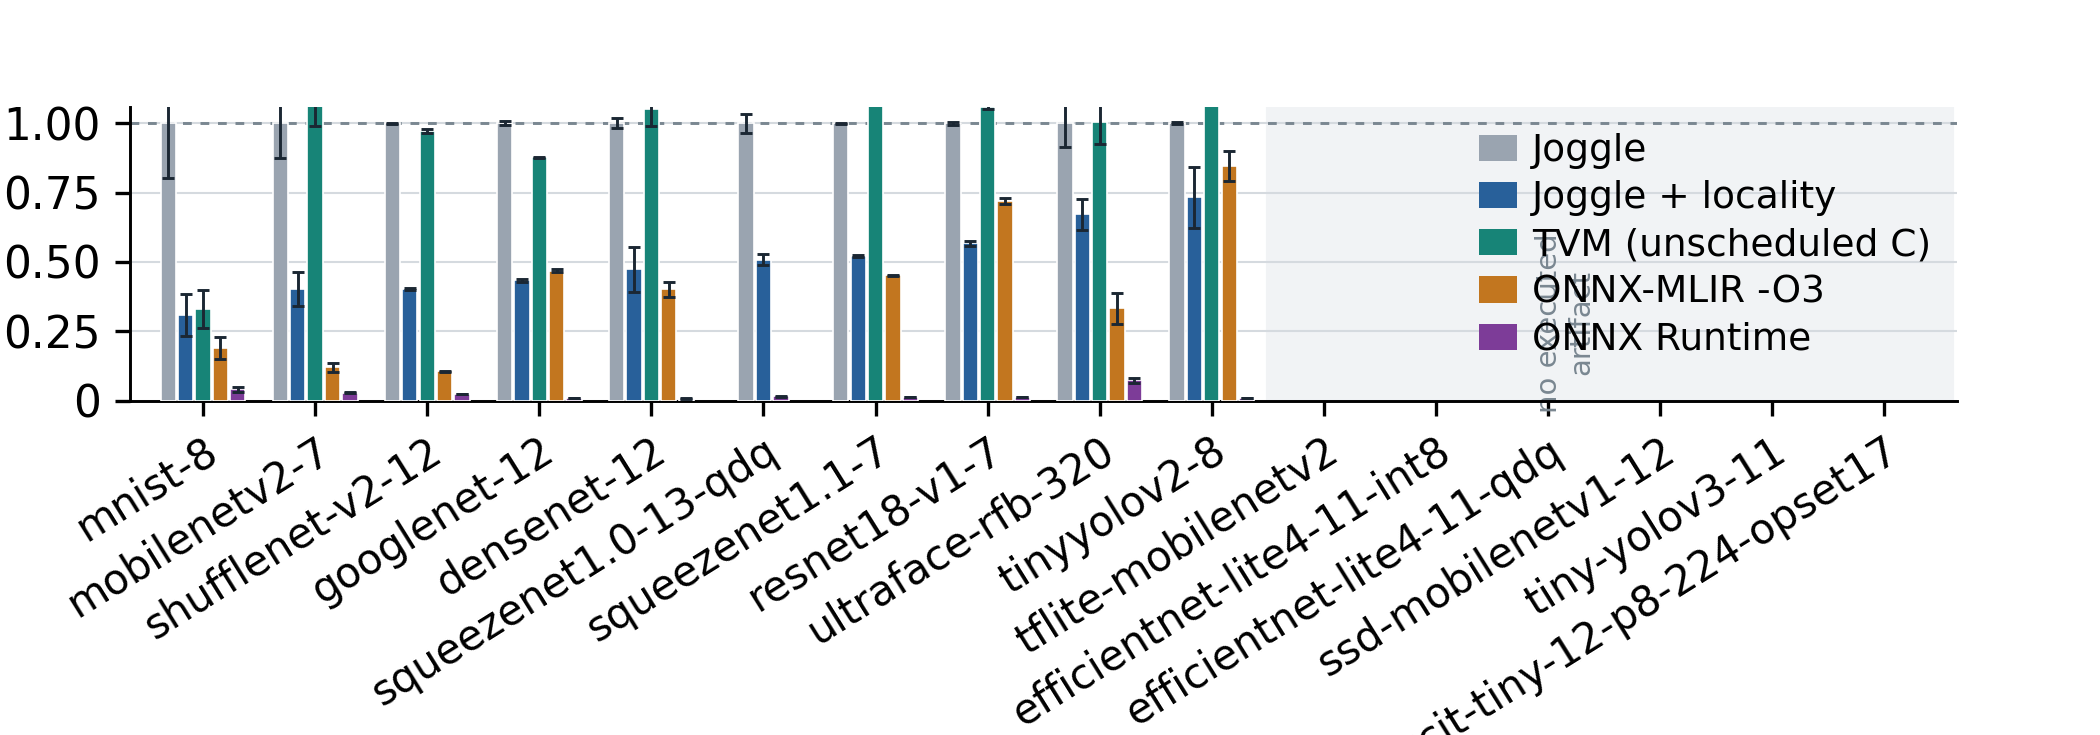
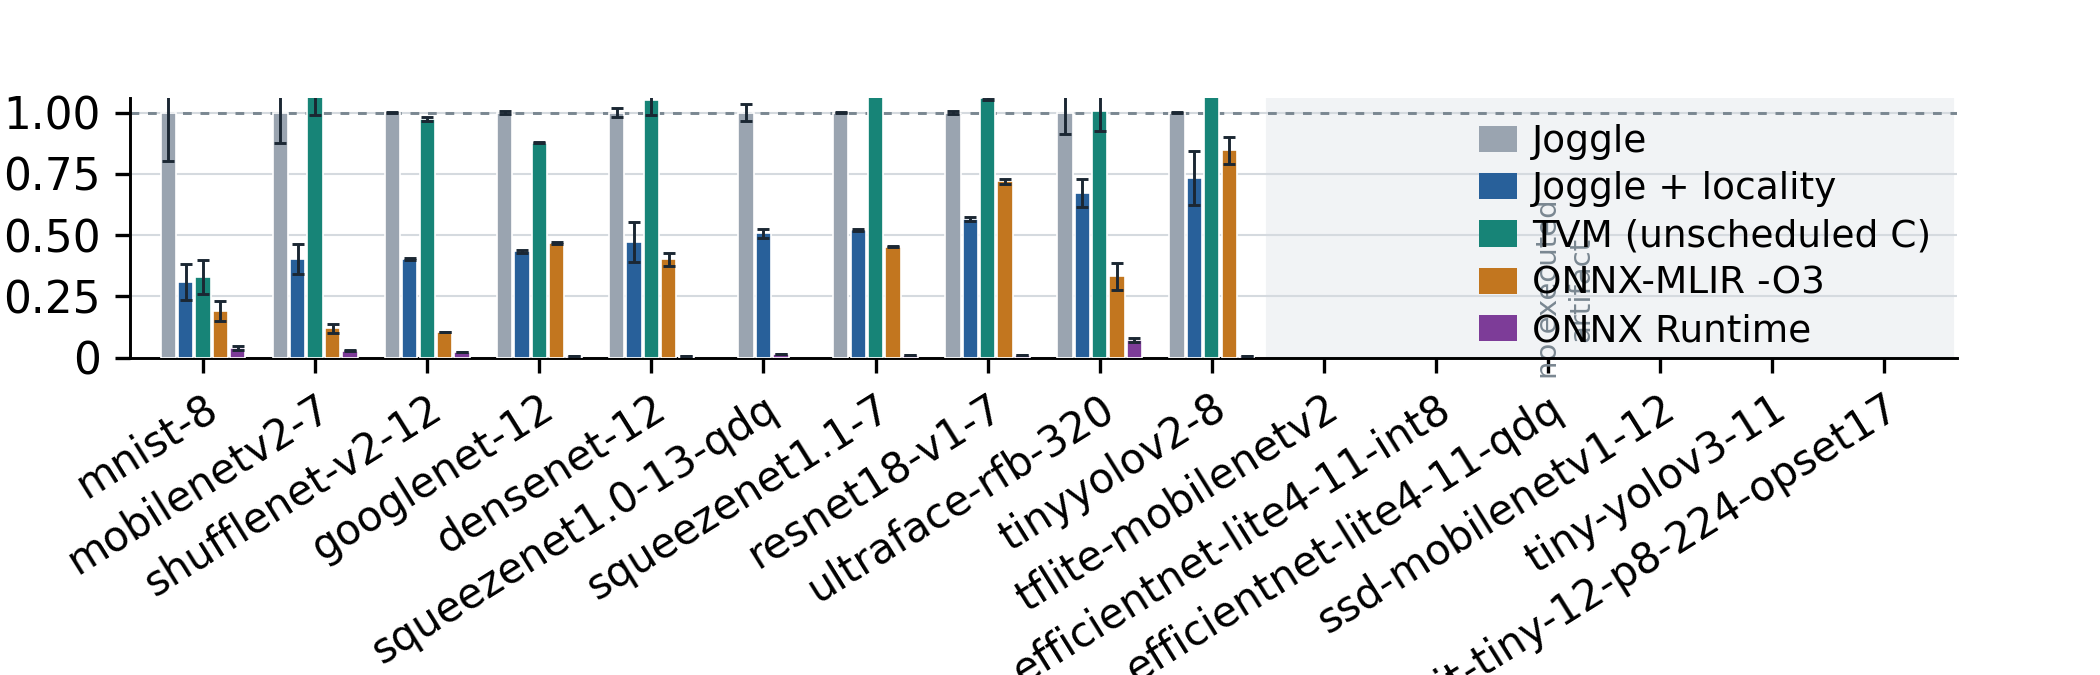
State the measured preparation scaling where the paper described the old blocker
The paper said SSD-MobileNetV1 is declined by static-control folding over a rank
difference. That gap is closed, and what remains is cost, so the sentence now
says so and carries the measurement: across the models with both a preparation
record and a retained graph, seconds over operations squared stays between
1.6e-4 and 9.6e-4 from 18 operations to 1,758, and this model's 8,118 predict
hours. The four-hour run was stopped rather than left to finish.

Fitting the sentence cost height in the two stacked sub-figures, which keep their
type sizes because they are displayed at their design width.

diff --git a/paper/submission/main.tex b/paper/submission/main.tex
@@ -818,12 +818,15 @@ source-format call left, including the three that earlier stopped at 280, 6790,
 and 1333 unknown results. Twelve also have executed artifacts that pass a stored
 reference, and the TFLite model agrees with LiteRT to $1.0\times10^{-6}$.
 
-Reach is not execution, and the models without campaign timing stand in
-different places. TinyYOLOv3 declares its input extents with no dimension parameter and
+Reach is not execution, and the models without campaign timing differ. TinyYOLOv3 declares its input extents with no dimension parameter and
 computes them at run time from a second input tensor, so declaring a shape still
 leaves seventy-three tensors dynamic and preparation stops on a stride
-computation. SSD-MobileNetV1 converts and is then declined by
-static-control folding, whose two arms carry tensor types of different rank. The
+computation. SSD-MobileNetV1 was declined by static-control
+folding, whose two arms carried tensor types of different rank; that gap is
+closed, and what remains is cost. Preparation is quadratic in graph size: across the models
+with both a record and a retained graph, seconds over operations squared stays
+between $1.6\times10^{-4}$ and $9.6\times10^{-4}$ from 18 operations to
+1{,}758, so this model's 8{,}118 predict hours. The
 EfficientNet-Lite4 INT8 variant builds, runs, and misses the stored reference by
 $4.34\times10^{-3}$ over 123 elements. Its ninety-two standard quantised operators
 now accumulate in int32 as specified, which moved that error only from

diff --git a/paper/scripts/render_evidence.py b/paper/scripts/render_evidence.py
@@ -50,9 +50,9 @@ def compile_series():
 def main():
     plt.rcParams.update({"font.family": "DejaVu Sans", "font.size": SIZE,
                          "pdf.fonttype": 42, "figure.dpi": 150})
-    fig = plt.figure(figsize=(7.0, 1.70))
-    left = fig.add_axes([.078, .470, .390, .420])
-    right = fig.add_axes([.645, .470, .310, .420])
+    fig = plt.figure(figsize=(7.0, 1.55))
+    left = fig.add_axes([.078, .490, .390, .400])
+    right = fig.add_axes([.645, .490, .310, .400])
 
     # (a) paired ratio against TVM, vertical intervals.
     rows = paired_rows()

diff --git a/paper/scripts/render_runtime.py b/paper/scripts/render_runtime.py
@@ -108,8 +108,8 @@ def main():
     order.sort(key=lambda m: runs[m]["locality"]["median"])
     order += [m for m in pinned() if m not in runs]
 
-    fig = plt.figure(figsize=(7, 2.45))
-    ax = fig.add_axes([.062, .455, .870, .400])
+    fig = plt.figure(figsize=(7, 2.25))
+    ax = fig.add_axes([.062, .470, .870, .385])
 
     for index, model in enumerate(order):
         variants = runs.get(model)
